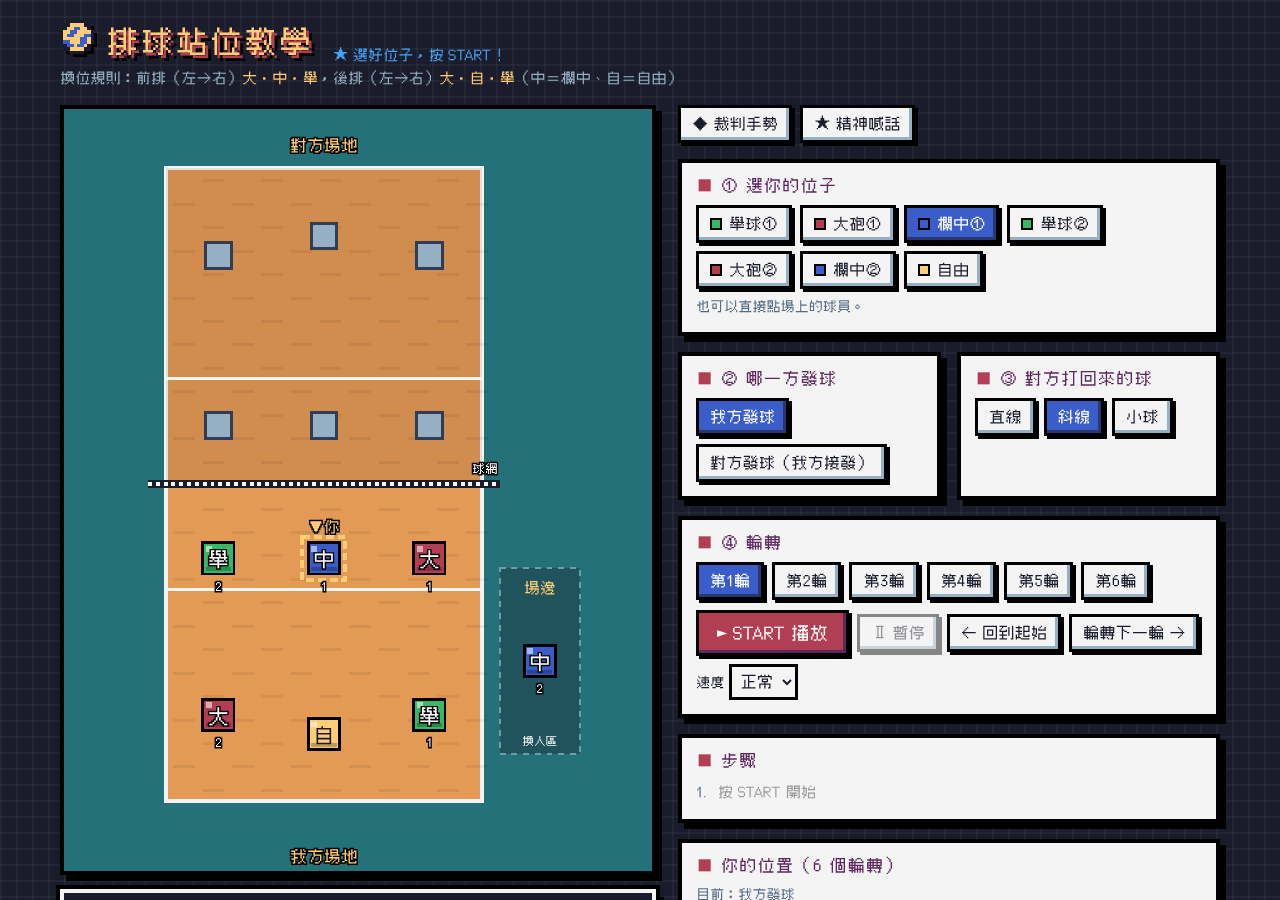
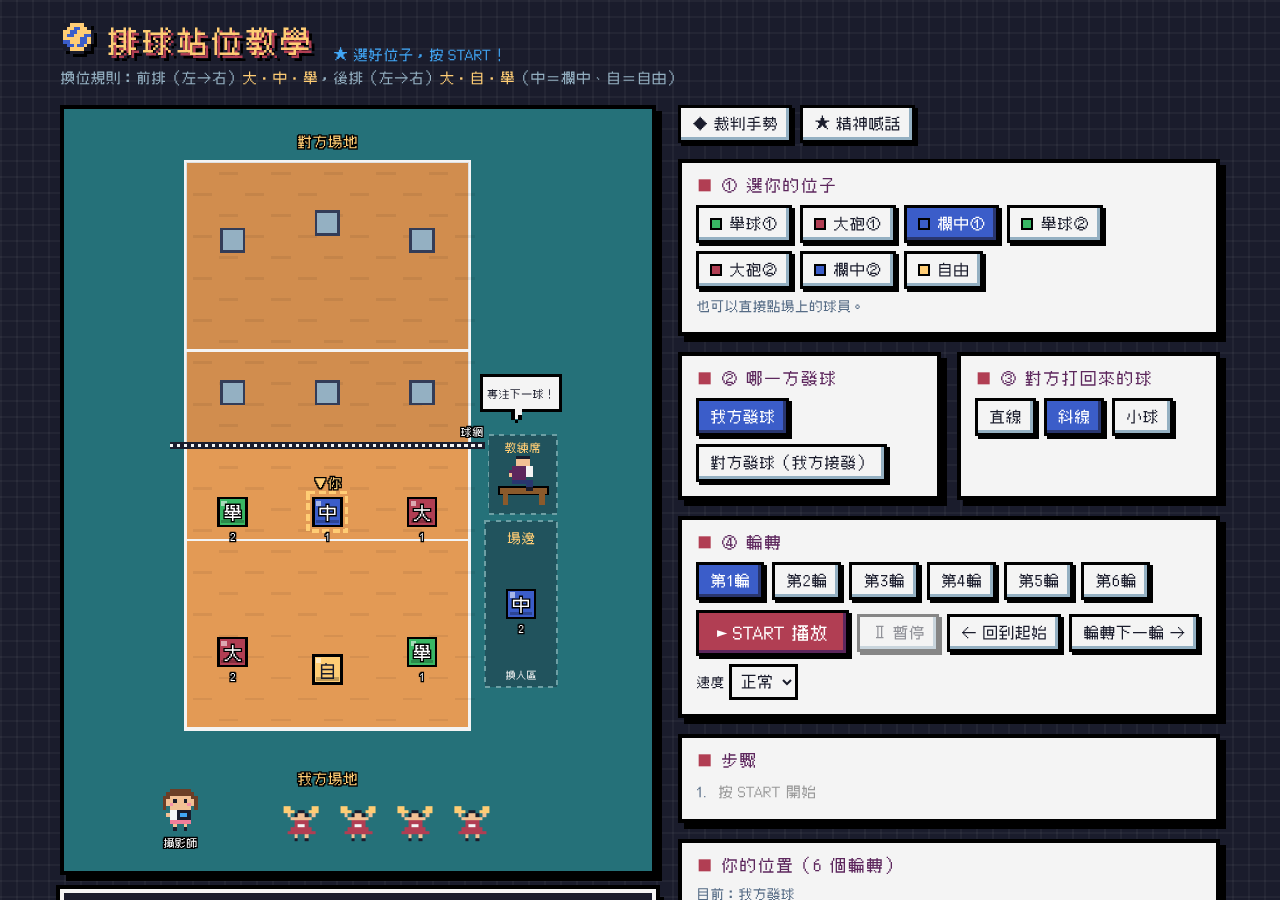
新增攝影師、教練席（會喊話）、啦啦隊
Claude-Session: https://claude.ai/code/session_0111Jq42HSaSmuEgEPrctLA6

Changed region(s): [[0.125, 0.1244, 0.4688, 0.9644]]

diff --git a/index.html b/index.html
@@ -76,6 +76,11 @@
   svg text{font-family:"Cubic11",monospace;pointer-events:none;font-weight:normal!important}
   svg text.halo{paint-order:stroke;stroke:#000;stroke-width:3px;stroke-linejoin:miter;fill:#fff}
   .player{cursor:pointer}
+  .hop{animation:hop .8s steps(1) infinite}
+  .hop.d1{animation-delay:.27s}.hop.d2{animation-delay:.53s}
+  @keyframes hop{50%{transform:translateY(-5px)}}
+  .flash{animation:flash 3s steps(1) infinite}
+  @keyframes flash{0%,92%{opacity:0}93%,97%{opacity:1}}
   #talkModal .box{background:var(--paper);color:var(--ink);border:4px solid #000;box-shadow:8px 8px 0 #000;padding:14px;max-width:720px;width:100%;max-height:88vh;display:flex;flex-direction:column}
   .talkBody{overflow-y:auto;font-size:15px;line-height:1.8;padding-right:6px}
   .talkBody h3{margin:16px 0 6px;font-weight:normal;font-size:18px;color:#fff;background:var(--red);display:inline-block;padding:2px 10px;box-shadow:3px 3px 0 #000}
@@ -95,7 +100,7 @@
 
 <div class="wrap">
   <div class="court">
-    <svg id="svg" viewBox="0 0 470 780" shape-rendering="crispEdges">
+    <svg id="svg" viewBox="0 0 470 870" shape-rendering="crispEdges">
       <rect x="38" y="60" width="324" height="648" fill="#e39a55" stroke="#f4f4f4" stroke-width="4"/>
       <rect x="38" y="60" width="324" height="324" fill="#000" opacity=".08"/>
       <g id="floor"></g>
@@ -109,6 +114,7 @@
       <text x="200" y="42" fill="#ffcd75" font-size="16" text-anchor="middle" class="halo" style="fill:#ffcd75">對方場地</text>
       <text x="200" y="770" fill="#ffcd75" font-size="16" text-anchor="middle" class="halo" style="fill:#ffcd75">我方場地</text>
       <text x="378" y="372" font-size="12" text-anchor="end" class="halo">球網</text>
+      <g id="deco"></g>
       <g id="opp"></g>
       <g id="trails"></g>
       <rect id="block" x="240" y="377" width="86" height="14" fill="#f4f4f4" stroke="#000" stroke-width="2" visibility="hidden"/>
@@ -315,6 +321,91 @@ function drawArt(){
   // 球網格子
   const n = $('netpix');
   for (let x = 20; x < 380; x += 8) el('rect', {x, y:382, width:4, height:4, fill:'#f4f4f4'}, n);
+}
+
+
+/* ---------- 場邊人物：攝影師、教練席、啦啦隊 ---------- */
+const PEOPLE_COL = {H:'#1a1c2c', S:'#f2c094', C:'#566c86', K:'#1a1c2c', G:'#41a6f6', L:'#29366f',
+  P:'#5d275d', W:'#f4f4f4', R:'#b13e53', Y:'#ffcd75', B:'#8b5a2b',
+  N:'#6b3e26', Q:'#f58fa8', M:'#ef7d9a'};
+const SPRITES = {
+  photographer: [
+    '..NNNNNN..',
+    '.NNNNNNNN.',
+    'NNSSSSSSNN',
+    'NSSKSSKSSN',
+    'NSQSSSSQSN',
+    'N.SSSSSS.N',
+    '..WWKKKK..',
+    '.SWWKGGK..',
+    '..WWKKKK..',
+    '..MMMMMM..',
+    '...S..S...',
+    '...K..K...'
+  ],
+  coach: [
+    '...HHHH...',
+    '...SSSS...',
+    '...SSSS...',
+    '..PPPPWW..',
+    '.PPPPPWW..',
+    '.SPPPPWW..',
+    '..PPPP....',
+    '..LLLLLL..',
+    '......LL..',
+    '......KK..'
+  ],
+  cheer: [
+    'YY......YY',
+    'YYY.HH.YYY',
+    '.S.HSSH.S.',
+    '..SSSSSS..',
+    '...RRRR...',
+    '...RWWR...',
+    '..RRRRRR..',
+    '.RRRRRRRR.',
+    '...S..S...',
+    '...K..K...'
+  ]
+};
+function sprite(g, name, x, y, size){
+  SPRITES[name].forEach((row, r) => [...row].forEach((ch, c) => {
+    if (PEOPLE_COL[ch]) el('rect', {x:x + c*size, y:y + r*size, width:size, height:size, fill:PEOPLE_COL[ch]}, g);
+  }));
+}
+const COACH_LINES = ['專注下一球！','大聲喊聲！','腳站穩送球！','攔網手要硬！','不接就要喊！','看到吊球要喊！','欄中快退！','好球！再一顆！'];
+function drawDeco(){
+  const d = $('deco');
+  // 攝影師（左下角，女生 Q 版）
+  sprite(d, 'photographer', 12, 776, 4);
+  const fl = el('g', {class:'flash'}, d);
+  el('rect', {x:56, y:804, width:8, height:8, fill:'#fff'}, fl);
+  el('rect', {x:64, y:800, width:4, height:4, fill:'#fff'}, fl);
+  el('rect', {x:64, y:812, width:4, height:4, fill:'#fff'}, fl);
+  const t = el('text', {x:32, y:842, 'text-anchor':'middle', 'font-size':12, class:'halo'}, d); t.textContent = '攝影師';
+  // 教練席（右側場邊，換人區上面）
+  el('rect', {x:384, y:372, width:78, height:90, fill:'#1a1c2c', opacity:.35, stroke:'#f4f4f4', 'stroke-width':2, 'stroke-dasharray':'6 6'}, d);
+  const ct = el('text', {x:423, y:390, 'text-anchor':'middle', 'font-size':13, style:'fill:#ffcd75'}, d); ct.textContent = '教練席';
+  el('rect', {x:396, y:432, width:56, height:8, fill:PEOPLE_COL.B, stroke:'#000', 'stroke-width':2}, d);
+  el('rect', {x:400, y:440, width:6, height:12, fill:PEOPLE_COL.B}, d);
+  el('rect', {x:442, y:440, width:6, height:12, fill:PEOPLE_COL.B}, d);
+  sprite(d, 'coach', 403, 396, 4);
+  // 教練對話框
+  el('rect', {x:376, y:304, width:90, height:40, fill:'#f4f4f4', stroke:'#000', 'stroke-width':3}, d);
+  el('rect', {x:414, y:343, width:8, height:6, fill:'#f4f4f4'}, d);
+  el('rect', {x:414, y:349, width:4, height:5, fill:'#f4f4f4'}, d);
+  el('rect', {x:410, y:343, width:4, height:12, fill:'#000'}, d);
+  el('rect', {x:418, y:349, width:4, height:6, fill:'#000'}, d);
+  el('rect', {x:414, y:355, width:4, height:3, fill:'#000'}, d);
+  const say = el('text', {x:421, y:329, 'text-anchor':'middle', 'font-size':12, fill:'#1a1c2c', id:'coachSay'}, d);
+  let k = 0;
+  say.textContent = COACH_LINES[0];
+  setInterval(() => { k = (k + 1) % COACH_LINES.length; say.textContent = COACH_LINES[k]; }, 2600);
+  // 啦啦隊（底線後方）
+  [150, 215, 280, 345].forEach((x, n) => {
+    const g = el('g', {class:'hop d' + (n % 3)}, d);
+    sprite(g, 'cheer', x, 796, 4);
+  });
 }
 
 /* ---------- 繪圖 ---------- */
@@ -697,6 +788,7 @@ $('talkClose').onclick = () => $('talkModal').style.display = 'none';
 $('talkModal').onclick = e => { if (e.target.id === 'talkModal') $('talkModal').style.display = 'none'; };
 
 drawArt();
+drawDeco();
 drawOpp();
 reset();
 </script>

diff --git a/README.md b/README.md
@@ -65,6 +65,8 @@
 
 ![裁判手勢](screenshots/referee.png)
 
+- **場邊人物**：左下角有 Q 版女生攝影師（相機會閃光），右側場邊上方有教練席，教練會輪流喊話（例如「專注下一球！」「攔網手要硬！」），底線後方有會跳動的啦啦隊
+
 ### 手機版
 畫面會自動改成單欄，球場在上、操作按鈕在下。
 
